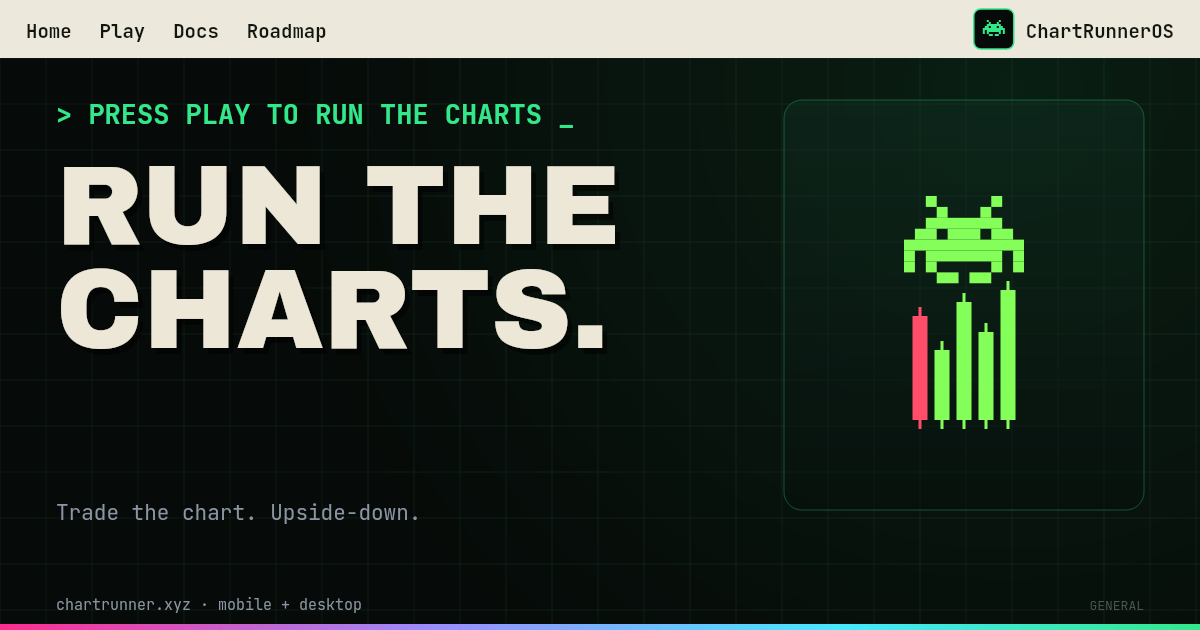
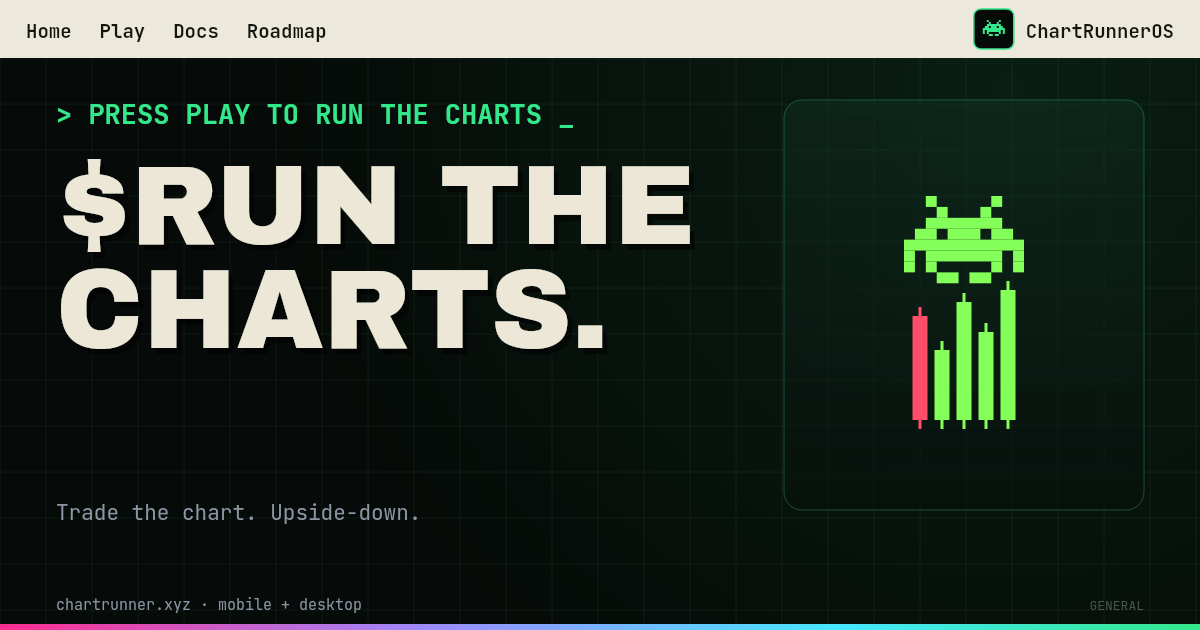
card: $RUN THE CHARTS headline on general/OG card

Changed region(s): [[0.0308, 0.2413, 0.5858, 0.3921]]

diff --git a/chartrunner-prototype/assets/cr-share-card.js b/chartrunner-prototype/assets/cr-share-card.js
@@ -14,7 +14,7 @@
 
   // full canon content per type; value/sub override the live bits
   const T = {
-    general:     { general:true, prompt:'> PRESS PLAY TO RUN THE CHARTS _', hero:['RUN THE','CHARTS.'],
+    general:     { general:true, prompt:'> PRESS PLAY TO RUN THE CHARTS _', hero:['$RUN THE','CHARTS.'],
                    sub:'Trade the chart. Upside-down.', foot:'chartrunner.xyz · mobile + desktop', ftype:'GENERAL' },
     // v1.0.630 — richer PNL card: tag = SPOT / leverage× / ON-CHAIN (brainstormed set,
     // see docs prompt) rendered as the kind pill; sub now carries entry->exit price
